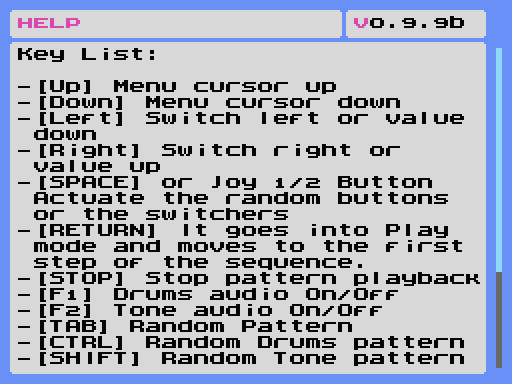
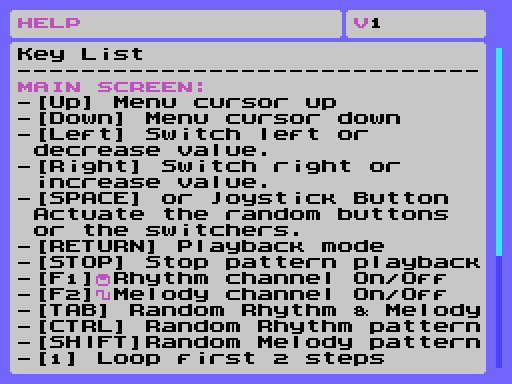
DOCs and PNGs v1

Changed region(s): [[0.0, 0.0, 1.0, 1.0]]

diff --git a/sources/tarp.c b/sources/tarp.c
@@ -194,9 +194,10 @@ void num2Dec16(unsigned int value, char *address);
 
 
 // definicion variables globales <<<<<<<<<<<<<<<<<<<<<<<<<<<<<<<<<<<<<<<<<<<<<<<
+const char APPCODE[] = "MV0071";
 const char app_name[] = "THE ALAN RANDOMS PROJECT"; 
 const char app_author[] = "MVAC7/303BCN";
-const char app_version[] = "0.9.19b";
+const char app_version[] = "1";
 
 
 const char enve_data[128]={
